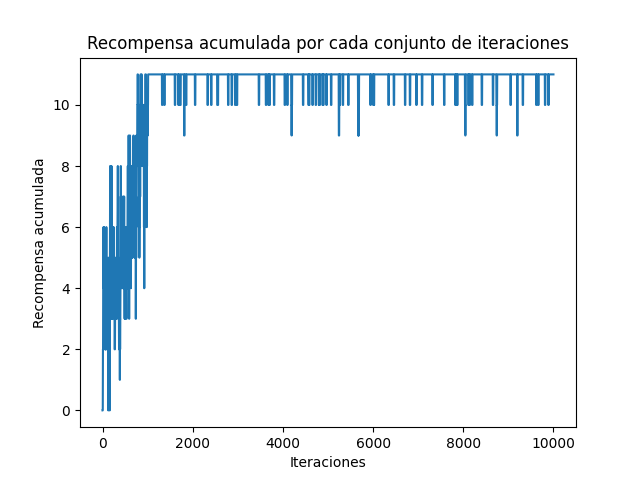
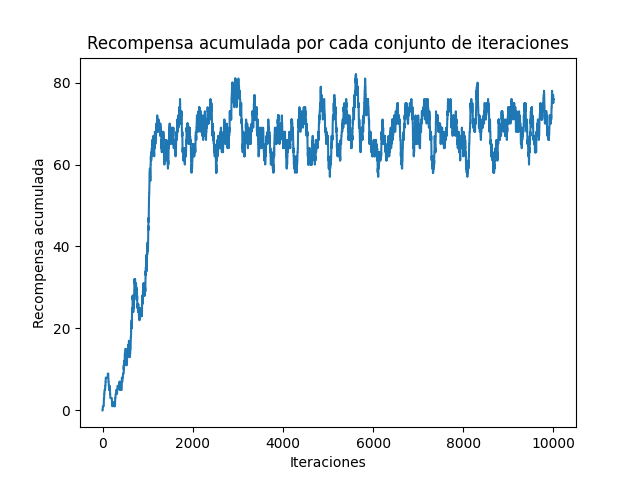
FinalConPersistencia

diff --git a/frozenLake.py b/frozenLake.py
@@ -4,15 +4,20 @@ import numpy as np
 import matplotlib.pyplot as plt
 import json
 
-def ejecutar(iteraciones=1000, mostrar=False):
+def ejecutar(iteraciones=1000, mostrar=False, entrenamiento=False):
     flag = False
 
     # Crear el ambiente
     env = gym.make('FrozenLake-v1', desc=generate_random_map(size=4), is_slippery=True, render_mode='human' if mostrar else None)
 
-    # Inicializar la tabla para el valor de q segun el numero de estados y acciones
-    q = np.zeros([env.observation_space.n, env.action_space.n]) # 16 estados y 4 acciones
-
+    # Inicializar la tabla para el valor de q segun el numero de estados y acciones solo si se va a entrenar el modelo
+    if(entrenamiento):
+        q = np.zeros([env.observation_space.n, env.action_space.n]) # 16 estados y 4 acciones
+    else:
+        # Cargar la tabla q desde un archivo json
+        with open("frozen_lake4x4.json", "r") as f:
+            q = np.array(json.load(f))
+    
     # Parametros de aprendizaje
     tasaAprendizaje = 0.8 # alpha
     descuento = 0.95 # gamma, debe ser alto ya que solo el ultimo estado es el que tiene recompensa
@@ -66,10 +71,10 @@ def ejecutar(iteraciones=1000, mostrar=False):
     env.close()
 
 
-    # Graficar la recompensa acumulada por cada conjunto de iteraciones (cada 10 iteraciones)
+    # Graficar la recompensa acumulada por cada conjunto de iteraciones (cada 100 iteraciones)
     sum_rewards = np.zeros(iteraciones)
     for t in range(iteraciones):
-        sum_rewards[t] = np.sum(recompensaPorIteracion[max(0, t-10):(t+1)])
+        sum_rewards[t] = np.sum(recompensaPorIteracion[max(0, t-100):(t+1)])
     plt.plot(sum_rewards)
     plt.xlabel('Iteraciones')
     plt.ylabel('Recompensa acumulada')
@@ -84,4 +89,5 @@ def ejecutar(iteraciones=1000, mostrar=False):
 if __name__ == "__main__":
     iteraciones = 10000 # numero de iteraciones para entrenar el modelo
     mostrar = False
-    ejecutar(iteraciones, mostrar)
+    entrenamiento = False
+    ejecutar(iteraciones, mostrar, entrenamiento)
